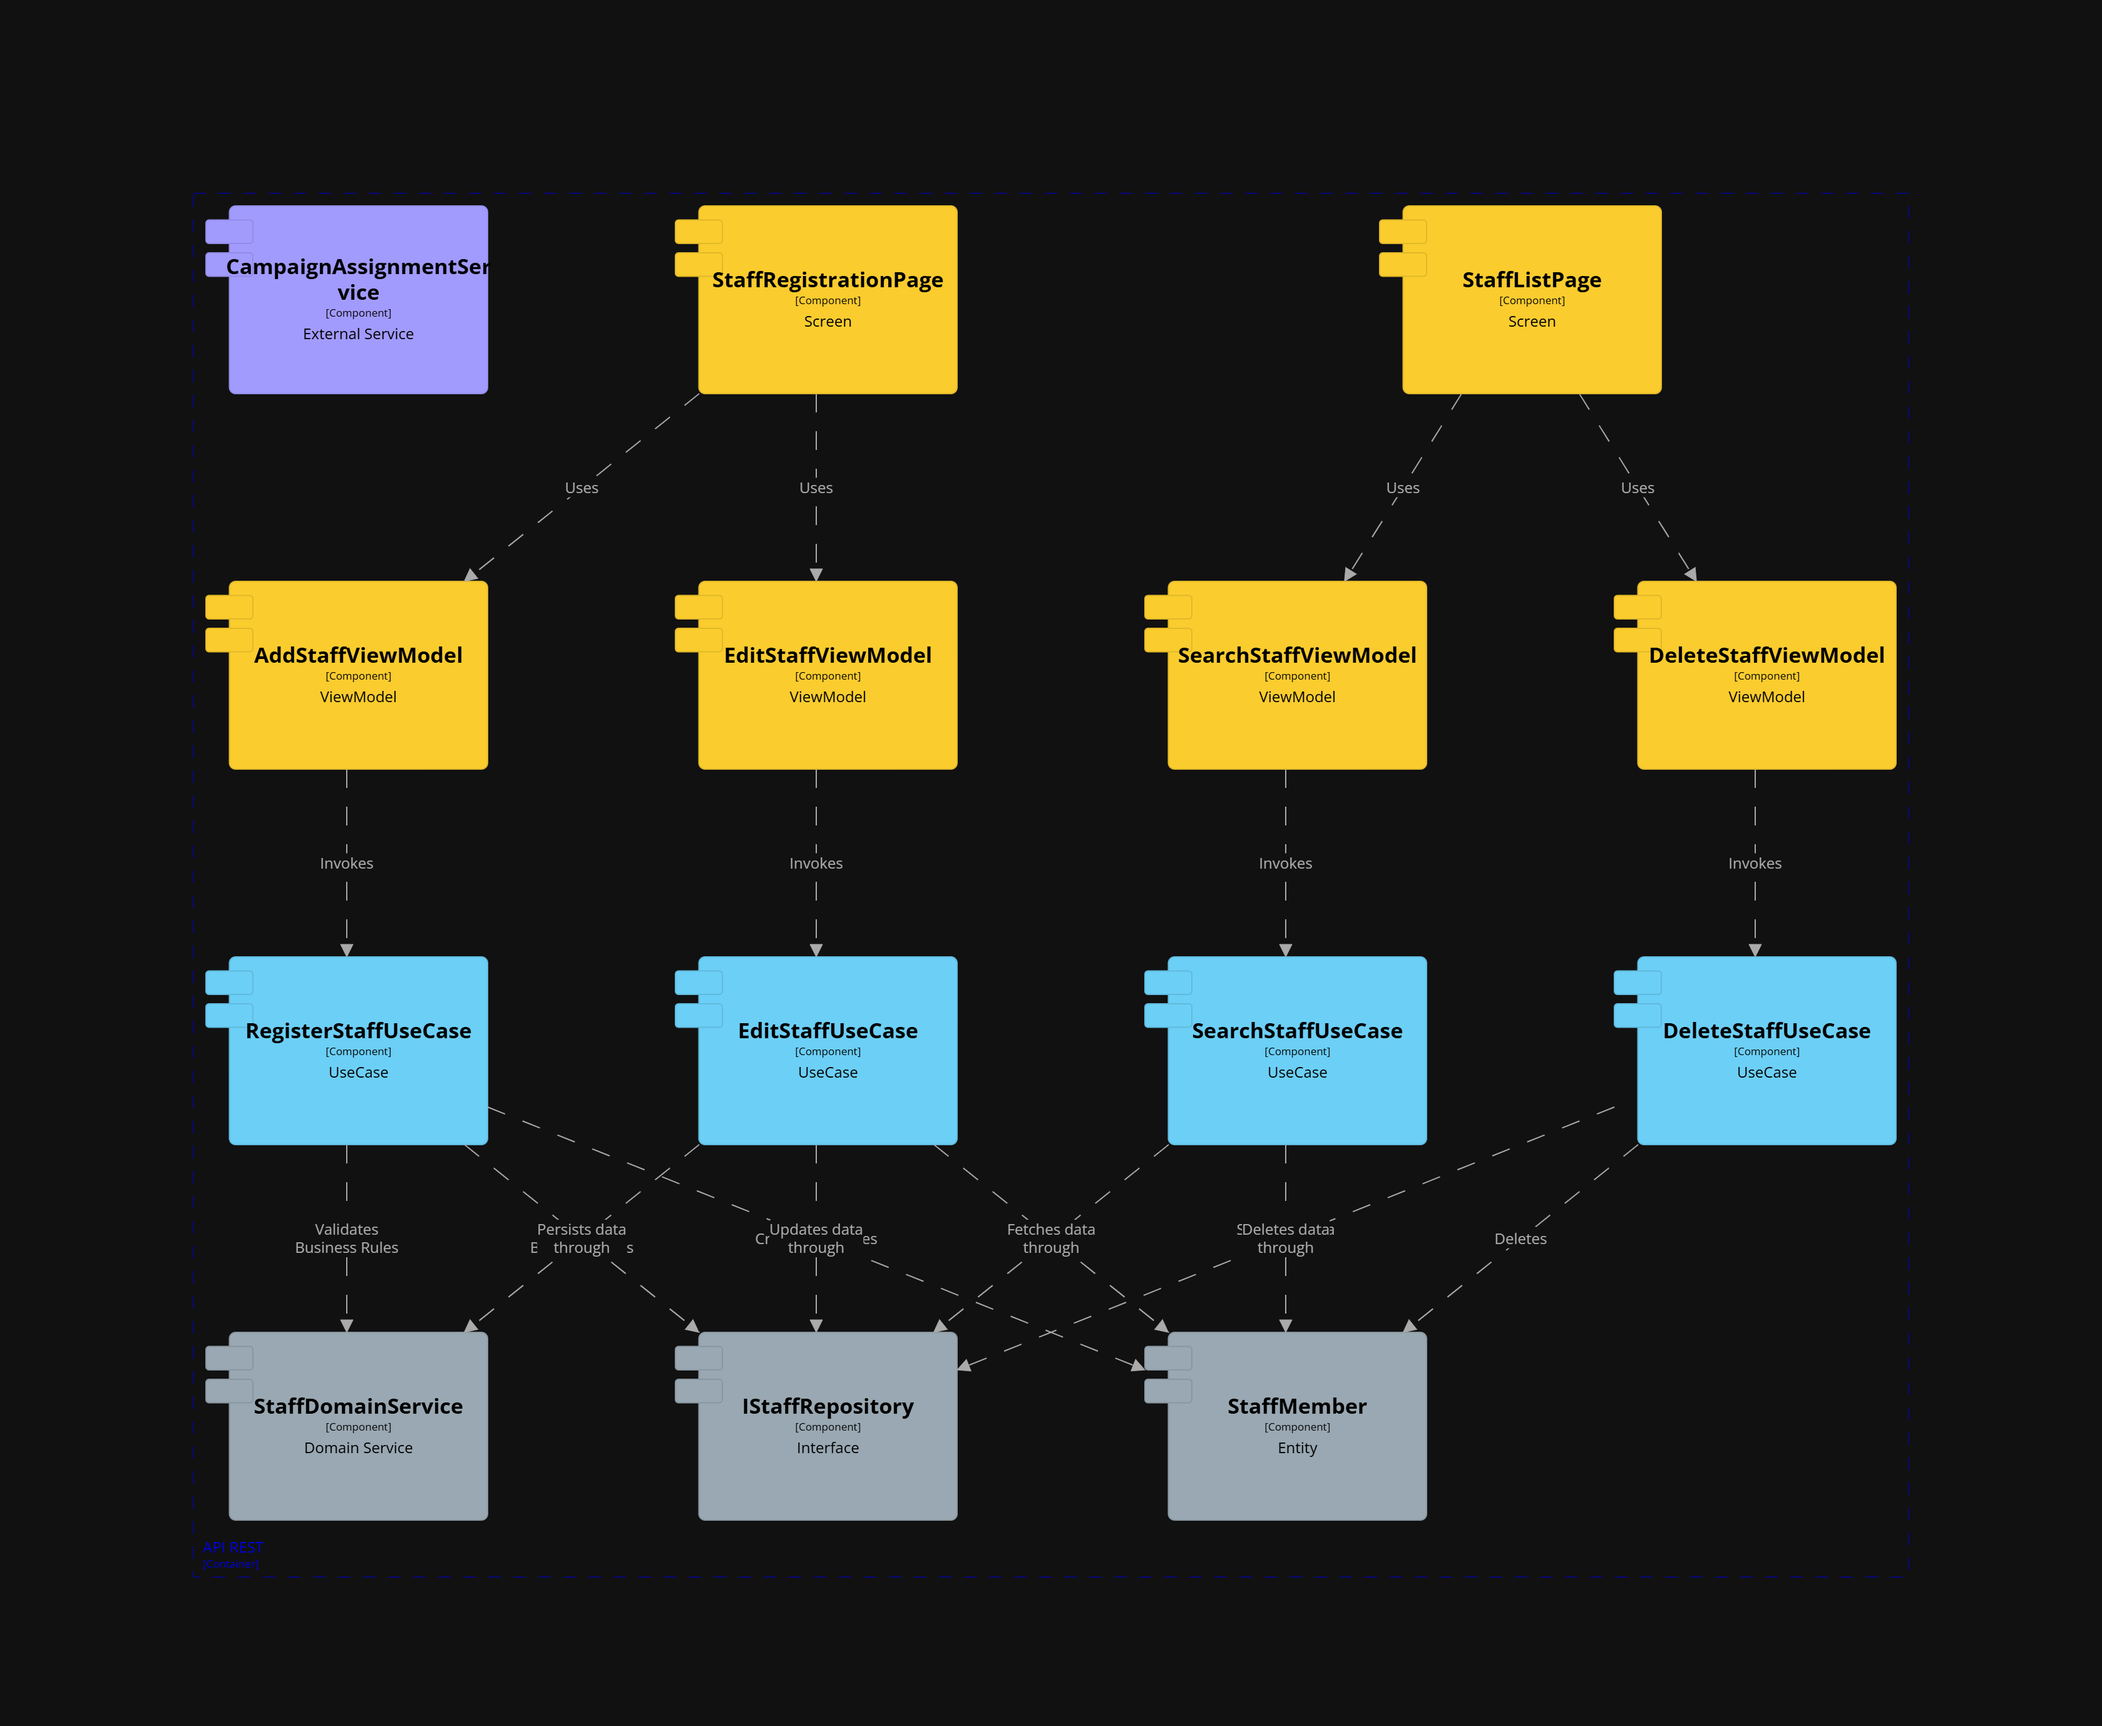
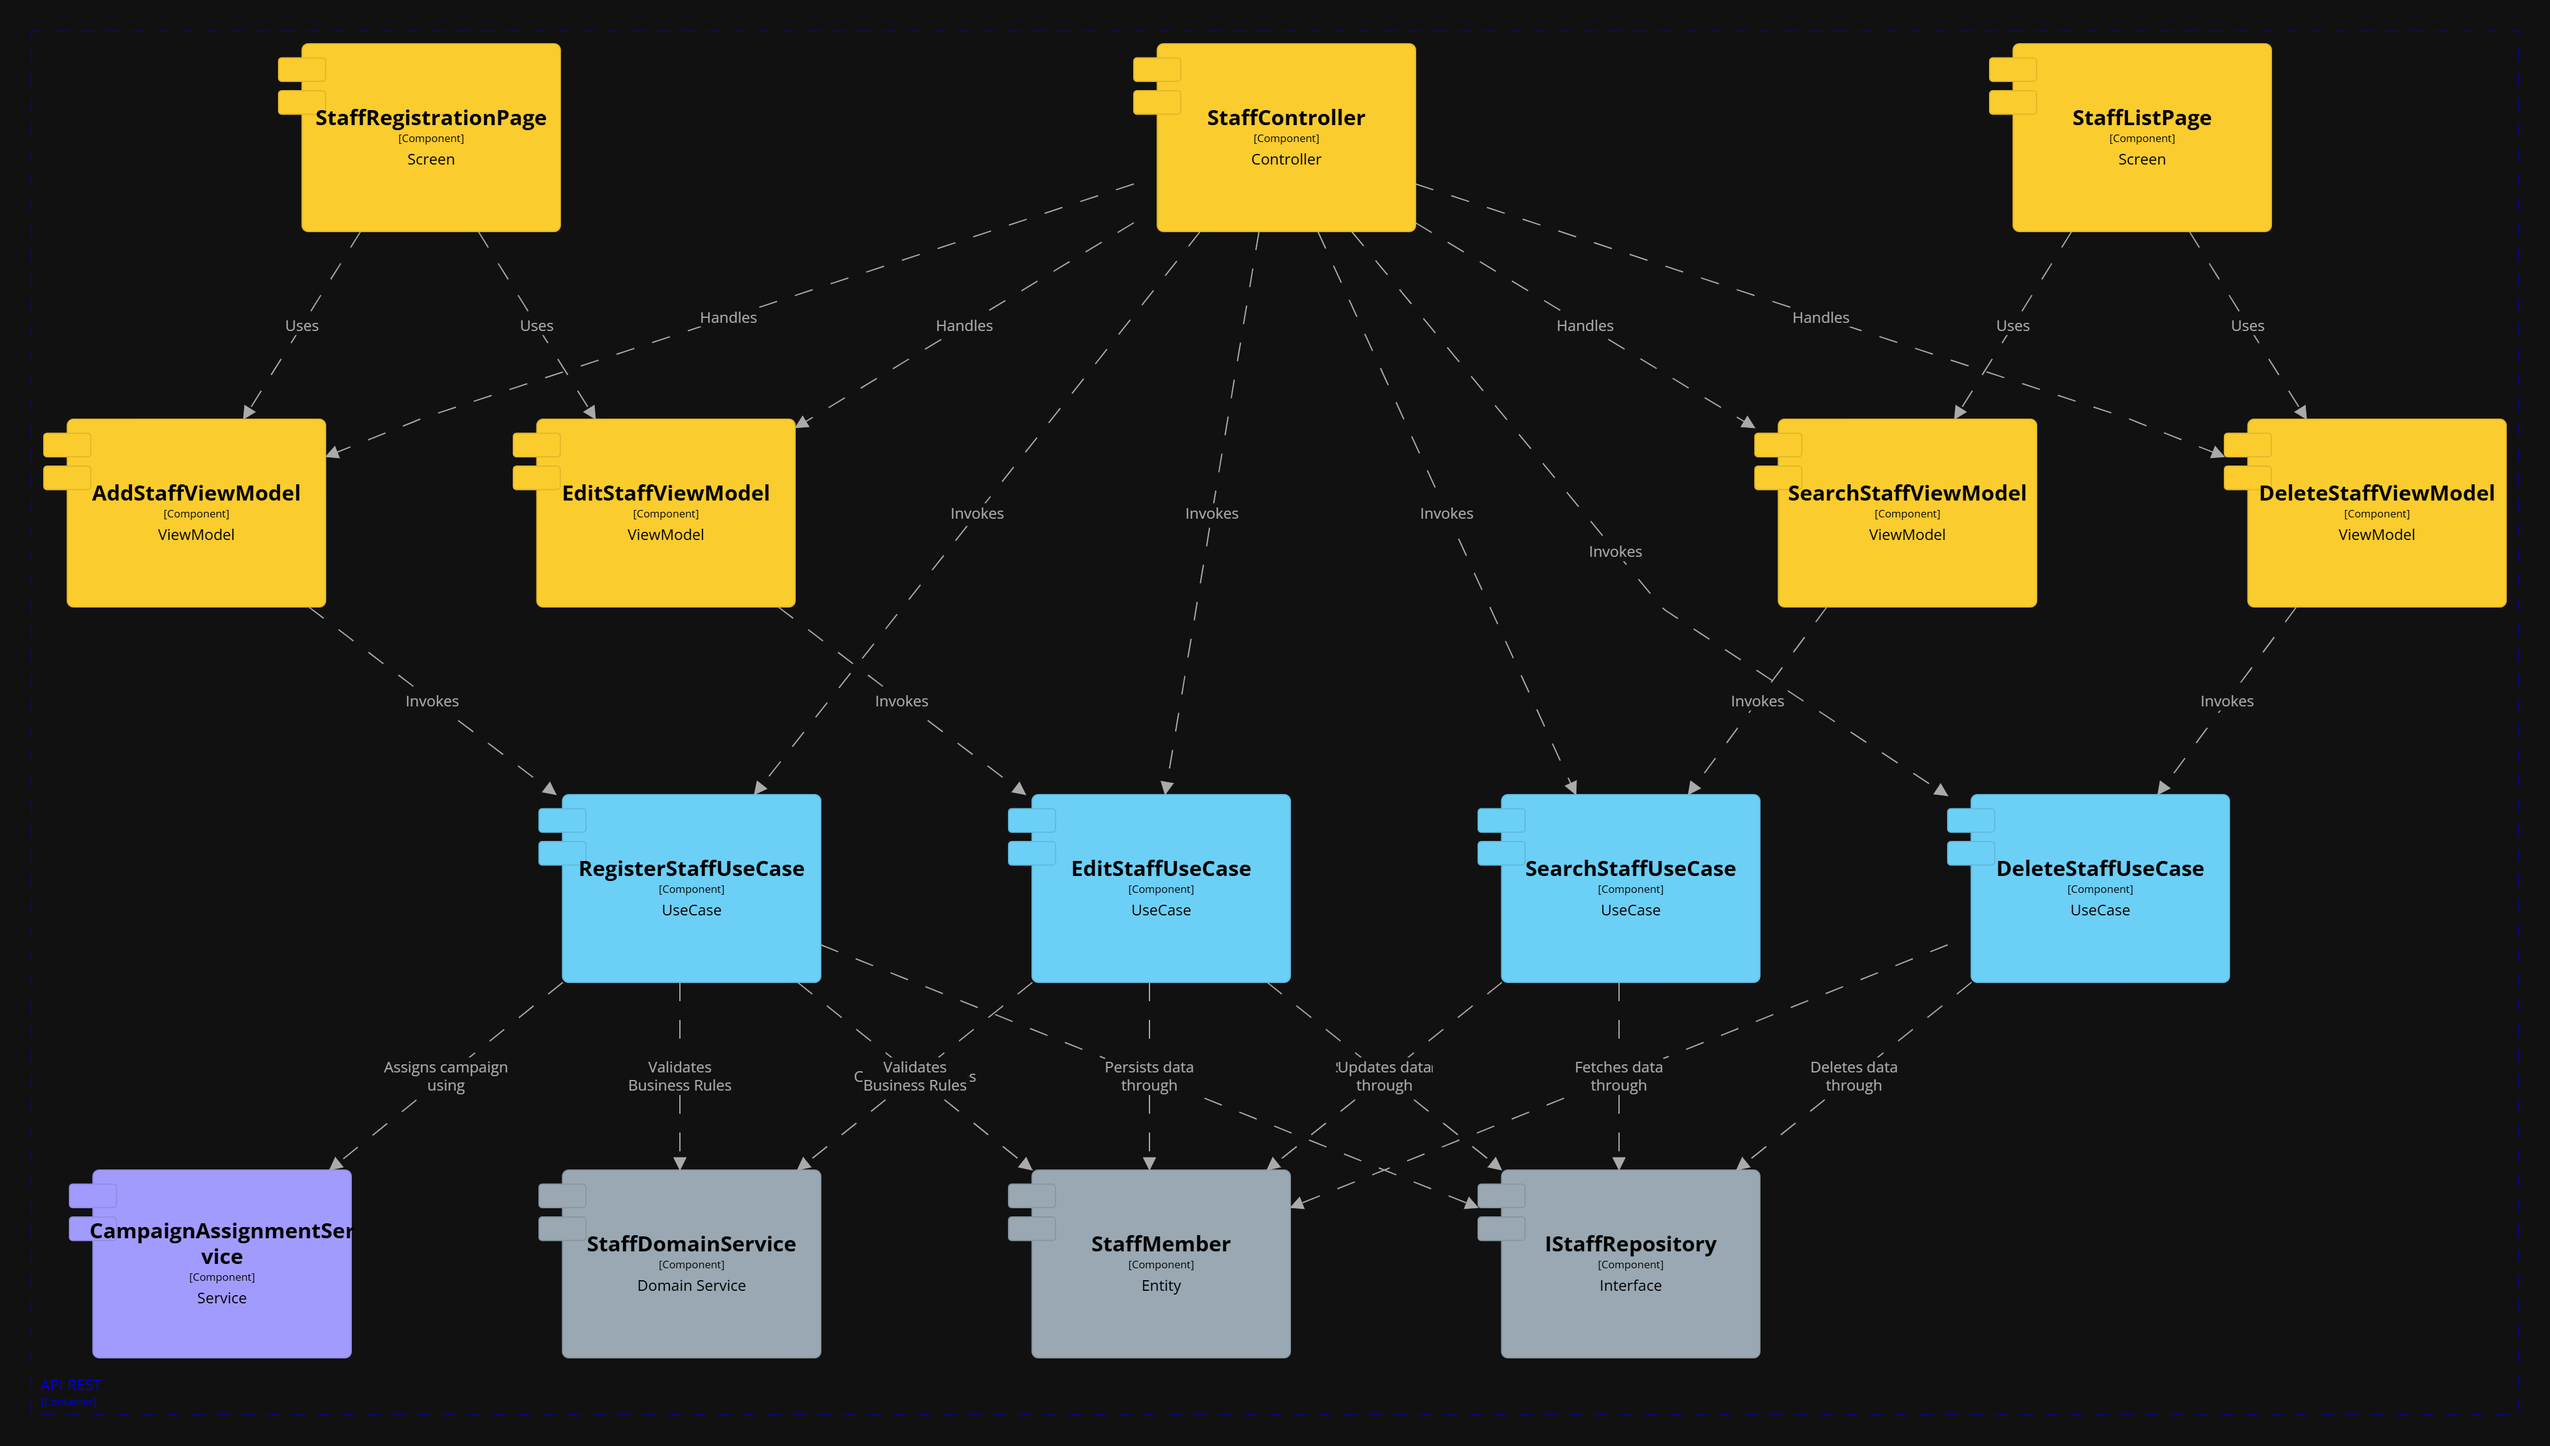
feat: add interview summary for livestock company and update staff administration diagrams

diff --git a/Readme.md b/Readme.md
@@ -276,6 +276,27 @@ En el Perú, el bienestar animal en las empresas ganaderas es a menudo insuficie
 ## 2.2. Entrevistas
 ### 2.2.1. Diseño de entrevistas
 ### 2.2.2. Registro de entrevistas
+
+**Segmento #2: Empresas Ganaderas**
+
+*Entrevistada:* Camila Sanchez<br>
+*Sexo:*  Femenino<br>
+*Edad:* 23<br>
+*Inicio de la Entrevista:* <br>
+*Duración de la Entrevista:* <br>
+
+<img src="./assets/entrevista-cami.png" style="width: 600px; height: auto;">
+
+*Resumen de la Entrevista*:
+
+Camila Sánchez, de 23 años, cuenta con cinco años de experiencia como trabajadora en el sector ganadero. Actualmente participa en la gestión de una empresa con más de 2000 cabezas de ganado, número que puede variar según nacimientos o ventas estacionales. La gestión actual se basa mayormente en registros manuales y hojas de Excel, lo cual genera errores y retrasos.
+
+Camila considera fundamental contar con una plataforma digital que centralice la información, mejore la coordinación del personal y permita una mejor toma de decisiones. Entre los retos más importantes que enfrentan están la gestión de recursos, el bienestar animal y la rentabilidad del negocio.
+
+En cuanto a funcionalidades deseadas, menciona la planificación de tareas, seguimiento del desempeño del personal, generación de reportes, comunicación interna y gestión de incidentes. También valora informes sobre producción, análisis de costos, salud animal y herramientas para identificar áreas de mejora.
+
+Para la interacción con proveedores, ve útil una plataforma que facilite la comunicación, el seguimiento de pedidos, la gestión de inventarios y la negociación. Finalmente, destaca la importancia de que la plataforma se adapte a sus procesos y sea personalizable en aspectos como roles, alertas, datos del ganado e informes, con el fin de mejorar la eficiencia y reducir errores, siempre priorizando el bienestar animal y la rentabilidad.
+
 ### 2.2.3. Análisis de entrevistas
 
 ## 2.3. Needfinding
@@ -308,8 +329,8 @@ En el Perú, el bienestar animal en las empresas ganaderas es a menudo insuficie
 #### 4.1.3.3. Software Architecture Deployment Diagrams
 
 ## 4.2. Tactical-Level Domain-Driven Design
-### 4.2.X. Bounded Context: Staff Administration
-#### 4.2.X.1. Domain Layer
+### 4.2.3. Bounded Context: Staff Administration
+#### 4.2.3.1. Domain Layer
 
 | **Clase**             | **Tipo**        | **Propósito**                                                                                 |
 |-----------------------|-----------------|-----------------------------------------------------------------------------------------------|
@@ -318,26 +339,27 @@ En el Perú, el bienestar animal en las empresas ganaderas es a menudo insuficie
 | IStaffRepository      | Interface       | Expone métodos para registrar, editar, eliminar y listar empleados.                           |
 | StaffDomainService    | Domain Service	| Aplica reglas como validación de estado antes de eliminar o actualizar.                       |
 
-#### 4.2.X.2. Interface Layer
+#### 4.2.3.2. Interface Layer
 
-| **Clase**              | **Tipo**  | **Propósito**                                                           |
-|------------------------|-----------|-------------------------------------------------------------------------|
-| AddStaffViewModel      | ViewModel | Coordina el registro del empleado y maneja eventos desde el formulario. |
-| SearchStaffViewModel   | ViewModel | Gestiona los criterios de búsqueda y presenta los resultados.           |
-| EditStaffViewModel     | ViewModel | Muestra datos actuales del empleado y permite su modificación.          |
-| DeleteStaffViewModel   | ViewModel | Lógica para confirmar y ejecutar la eliminación de un empleado.         |
-| StaffListPage          | Screen    | Muestra lista de empleados filtrables por nombre y estado.              |
-| StaffRegistrationPage  | Screen    | Formulario de registro de un nuevo miembro del staff.                   |
+| **Clase**              | **Tipo**     | **Propósito**                                                                 |
+|------------------------|--------------|-------------------------------------------------------------------------------|
+| AddStaffViewModel      | ViewModel    | Coordina el registro del empleado y maneja eventos desde el formulario.      |
+| SearchStaffViewModel   | ViewModel    | Gestiona los criterios de búsqueda y presenta los resultados.                |
+| EditStaffViewModel     | ViewModel    | Muestra datos actuales del empleado y permite su modificación.               |
+| DeleteStaffViewModel   | ViewModel    | Lógica para confirmar y ejecutar la eliminación de un empleado.             |
+| StaffListPage          | Screen       | Muestra lista de empleados filtrables por nombre y estado.                   |
+| StaffRegistrationPage  | Screen       | Formulario de registro de un nuevo miembro del staff.                        |
+| StaffController        | Controller   | Coordina la lógica de negocio relacionada al staff y comunica con los ViewModels. |
 
-#### 4.2.X.3. Application Layer
-#### 4.2.X.4. Infrastructure Layer
-#### 4.2.X.5. Bounded Context Software Architecture Component Level Diagrams
+#### 4.2.3.3. Application Layer
+#### 4.2.3.4. Infrastructure Layer
+#### 4.2.3.5. Bounded Context Software Architecture Component Level Diagrams
 
 <img src="./assets/staff-administration-bc.png" />
 
-#### 4.2.X.6. Bounded Context Software Architecture Code Level Diagrams
-##### 4.2.X.6.1. Bounded Context Domain Layer Class Diagrams
-##### 4.2.X.6.2. Bounded Context Database Design Diagram
+#### 4.2.3.6. Bounded Context Software Architecture Code Level Diagrams
+##### 4.2.3.6.1. Bounded Context Domain Layer Class Diagrams
+##### 4.2.3.6.2. Bounded Context Database Design Diagram
 
 
 
